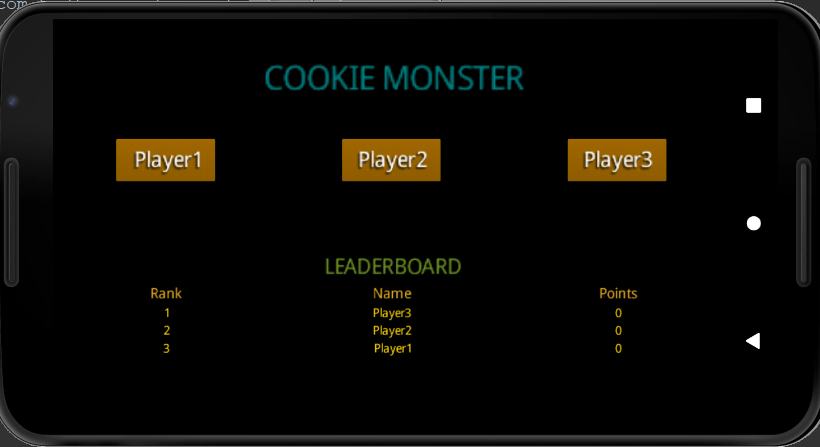
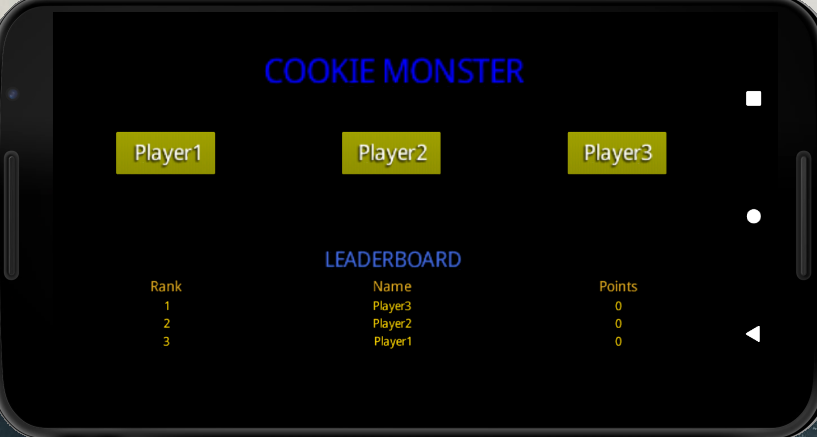
running - added screenshots

diff --git a/core/src/com/mygdx/animation/MainMenuScreen.java b/core/src/com/mygdx/animation/MainMenuScreen.java
@@ -222,7 +222,7 @@ public class MainMenuScreen implements Screen {
         Label topLabel = new Label("COOKIE MONSTER", skin);
         topLabel.setAlignment(Align.center);
         topLabel.setFontScale(7);
-        topLabel.setColor(Color.TEAL);
+        topLabel.setColor(Color.BLUE);
 
         Label nameLabel = new Label("Name:", skin);
         nameLabel.setFontScale(4);
@@ -232,18 +232,18 @@ public class MainMenuScreen implements Screen {
 
         TextButton p1Button = new TextButton("Player1",skin);
         p1Button.getLabel().setFontScale(4.5f);
-        p1Button.setColor(Color.ORANGE);
+        p1Button.setColor(Color.YELLOW);
         TextButton p2Button = new TextButton("Player2",skin);
         p2Button.getLabel().setFontScale(4.5f);
-        p2Button.setColor(Color.ORANGE);
+        p2Button.setColor(Color.YELLOW);
         TextButton p3Button = new TextButton("Player3",skin);
         p3Button.getLabel().setFontScale(4.5f);
-        p3Button.setColor(Color.ORANGE);
+        p3Button.setColor(Color.YELLOW);
 
         Label scoreLabel = new Label("LEADERBOARD", skin);
         scoreLabel.setAlignment(Align.center);
         scoreLabel.setFontScale(4.5f);
-        scoreLabel.setColor(Color.OLIVE);
+        scoreLabel.setColor(Color.ROYAL);
 
         Label rankLabel = new Label("Rank", skin);
         rankLabel.setAlignment(Align.center);
